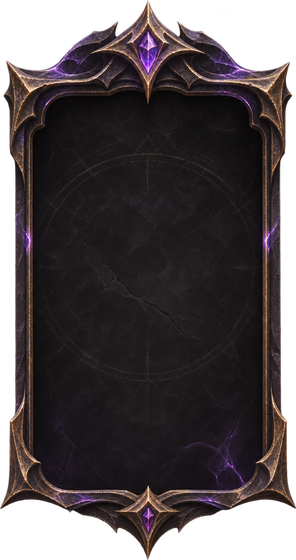
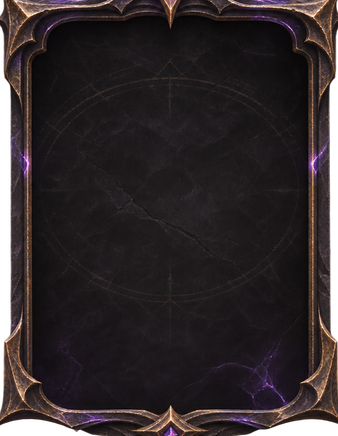
FIX: Forge slot frame cut to its border and sized to the item box

diff --git a/LastEpoch_Hud/Scripts/Mods/Items/Crafting/Items_AdvancedForgeWindow.cs b/LastEpoch_Hud/Scripts/Mods/Items/Crafting/Items_AdvancedForgeWindow.cs
@@ -26,8 +26,8 @@ internal static class Items_AdvancedForgeWindow
     private const string RootName = "AdvancedForgeWindow";
 
     private const float Left = 48, WinW = 670, OrbSize = 92;
-    private const float FrameW = 168, FrameH = 224; // the ornate slot frame
-    private const float ItemW = 90, ItemH = 152; // what the frame leaves for the item
+    private const float FrameW = 169, FrameH = 218; // the ornate slot frame
+    private const float ItemW = 140, ItemH = 196; // what the frame leaves for the item
     private const float ForgeW = 210, ForgeH = 70; // the Forge button
     private const float OrbY = 100, SlotY = 206;
     private static float CenterX => Left + WinW / 2;
@@ -518,7 +518,7 @@ internal static class Items_AdvancedForgeWindow
                     content.sprite = shown.Content;
                     content.preserveAspect = true;
                     content.raycastTarget = false;
-                    Stretch(content.rectTransform, 8);
+                    Stretch(content.rectTransform, 14);
                 }
             }
         }

diff --git a/scripts/Prepare-OrbUiArt.py b/scripts/Prepare-OrbUiArt.py
@@ -36,9 +36,10 @@ def square(im, side):
 for state in ('empty', 'hover', 'filled'):
     square(crop(load('orb_slot_%s.png' % state)), 256).save(os.path.join(OUT, 'orb_slot_%s.png' % state))
 
-# the slot frame and the button frame, kept in their own proportions
-frame = crop(load('Ornate Violet Crystal Slot Frame.png'))
-frame = frame.resize((int(frame.width * 560 / frame.height), 560), Image.LANCZOS)
+# The slot frame is cut down to its border: the dark panel with a slim rim round it, and not the long spikes. The panel
+# is 580 by 990 in the supplied image; it is drawn at 140 by 196, the size of an item's box, with the rim just showing.
+frame = load('Ornate Violet Crystal Slot Frame.png').crop((190, 190, 890, 1290))
+frame = frame.resize((338, 436), Image.LANCZOS)
 frame.save(os.path.join(OUT, 'forge_slot_frame.png'))
 button = crop(load('Ornate Violet Crystal Button Frame.png'))
 button = button.resize((600, int(button.height * 600 / button.width)), Image.LANCZOS)
